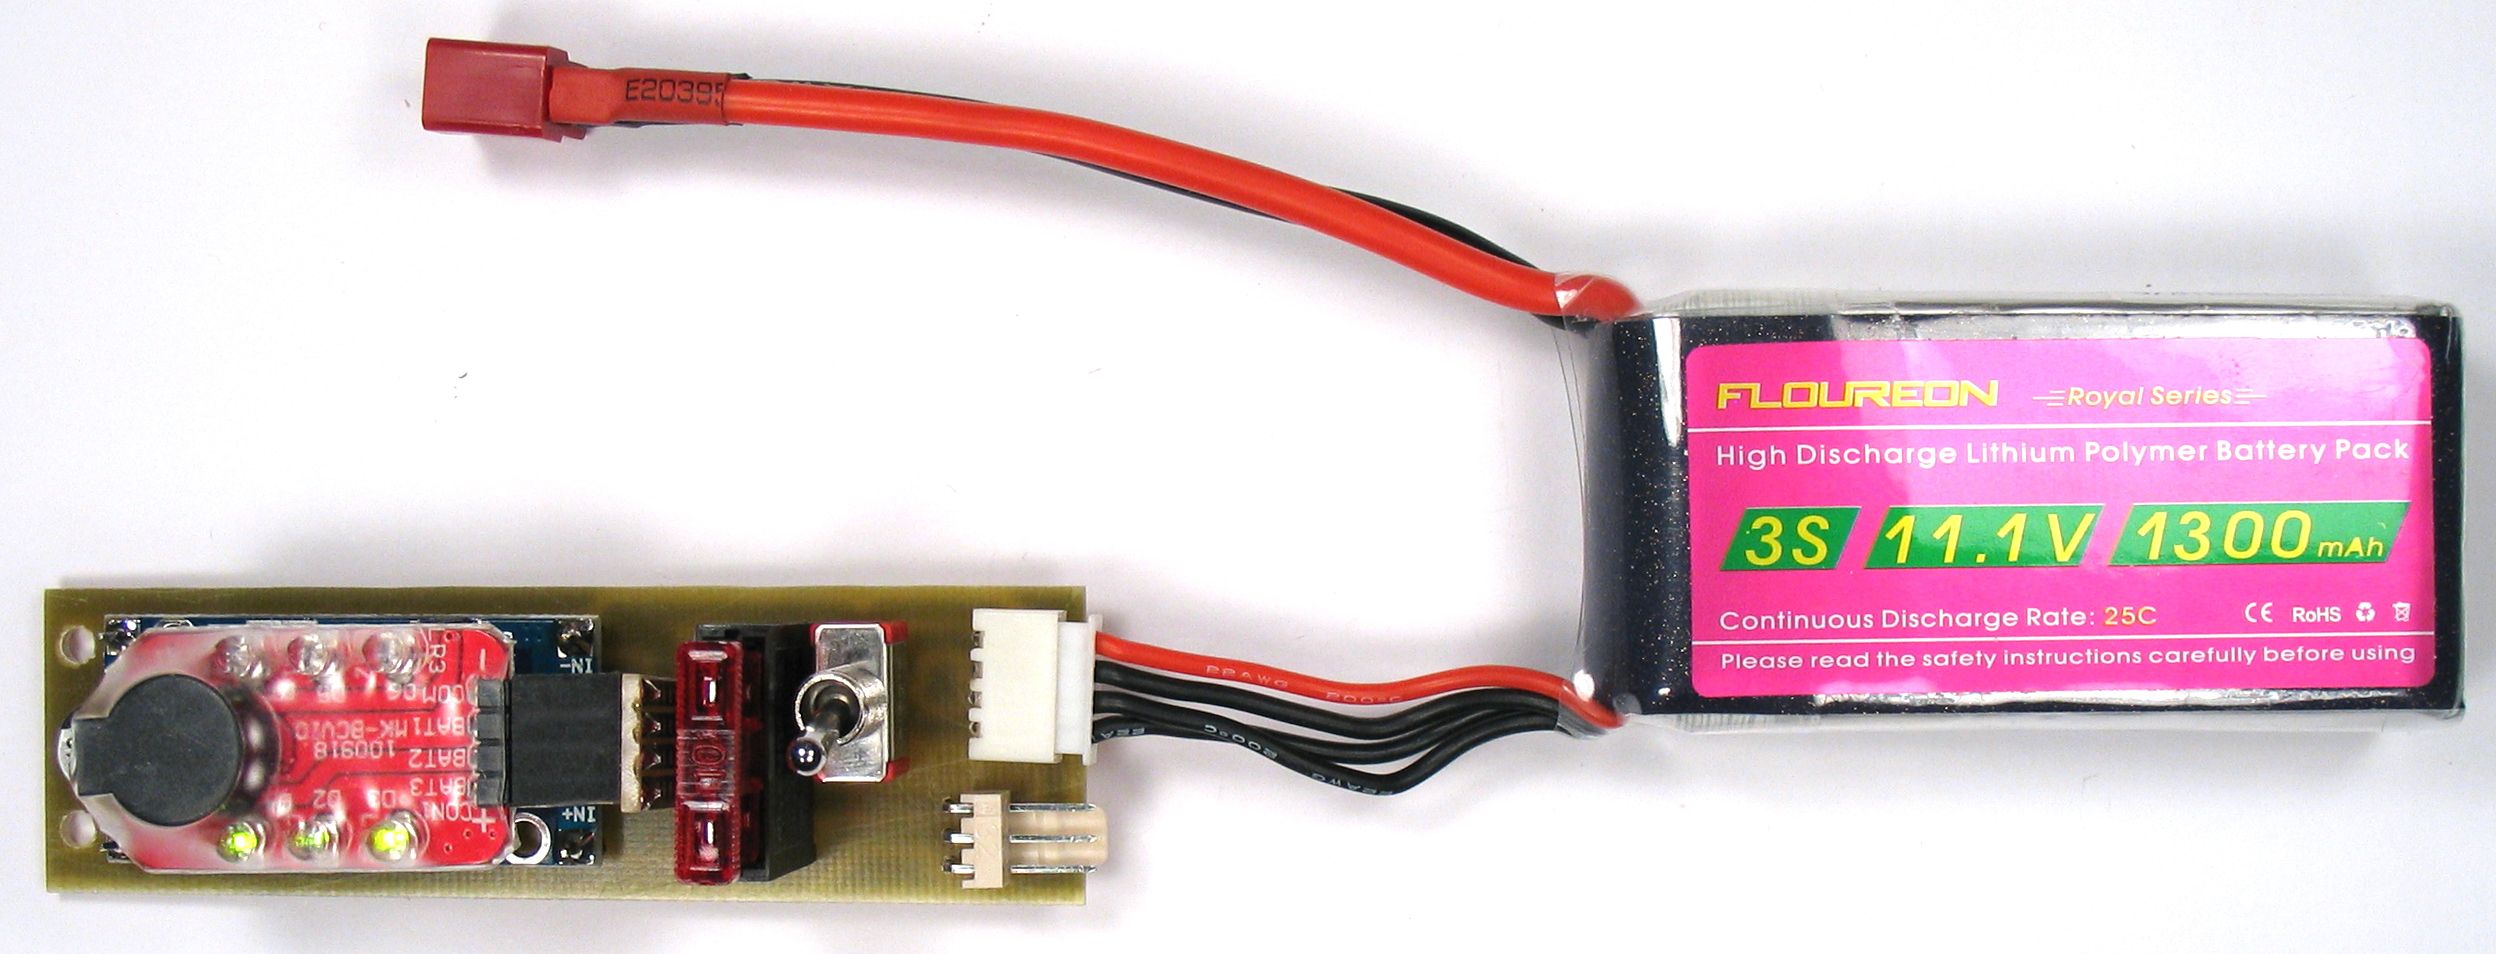
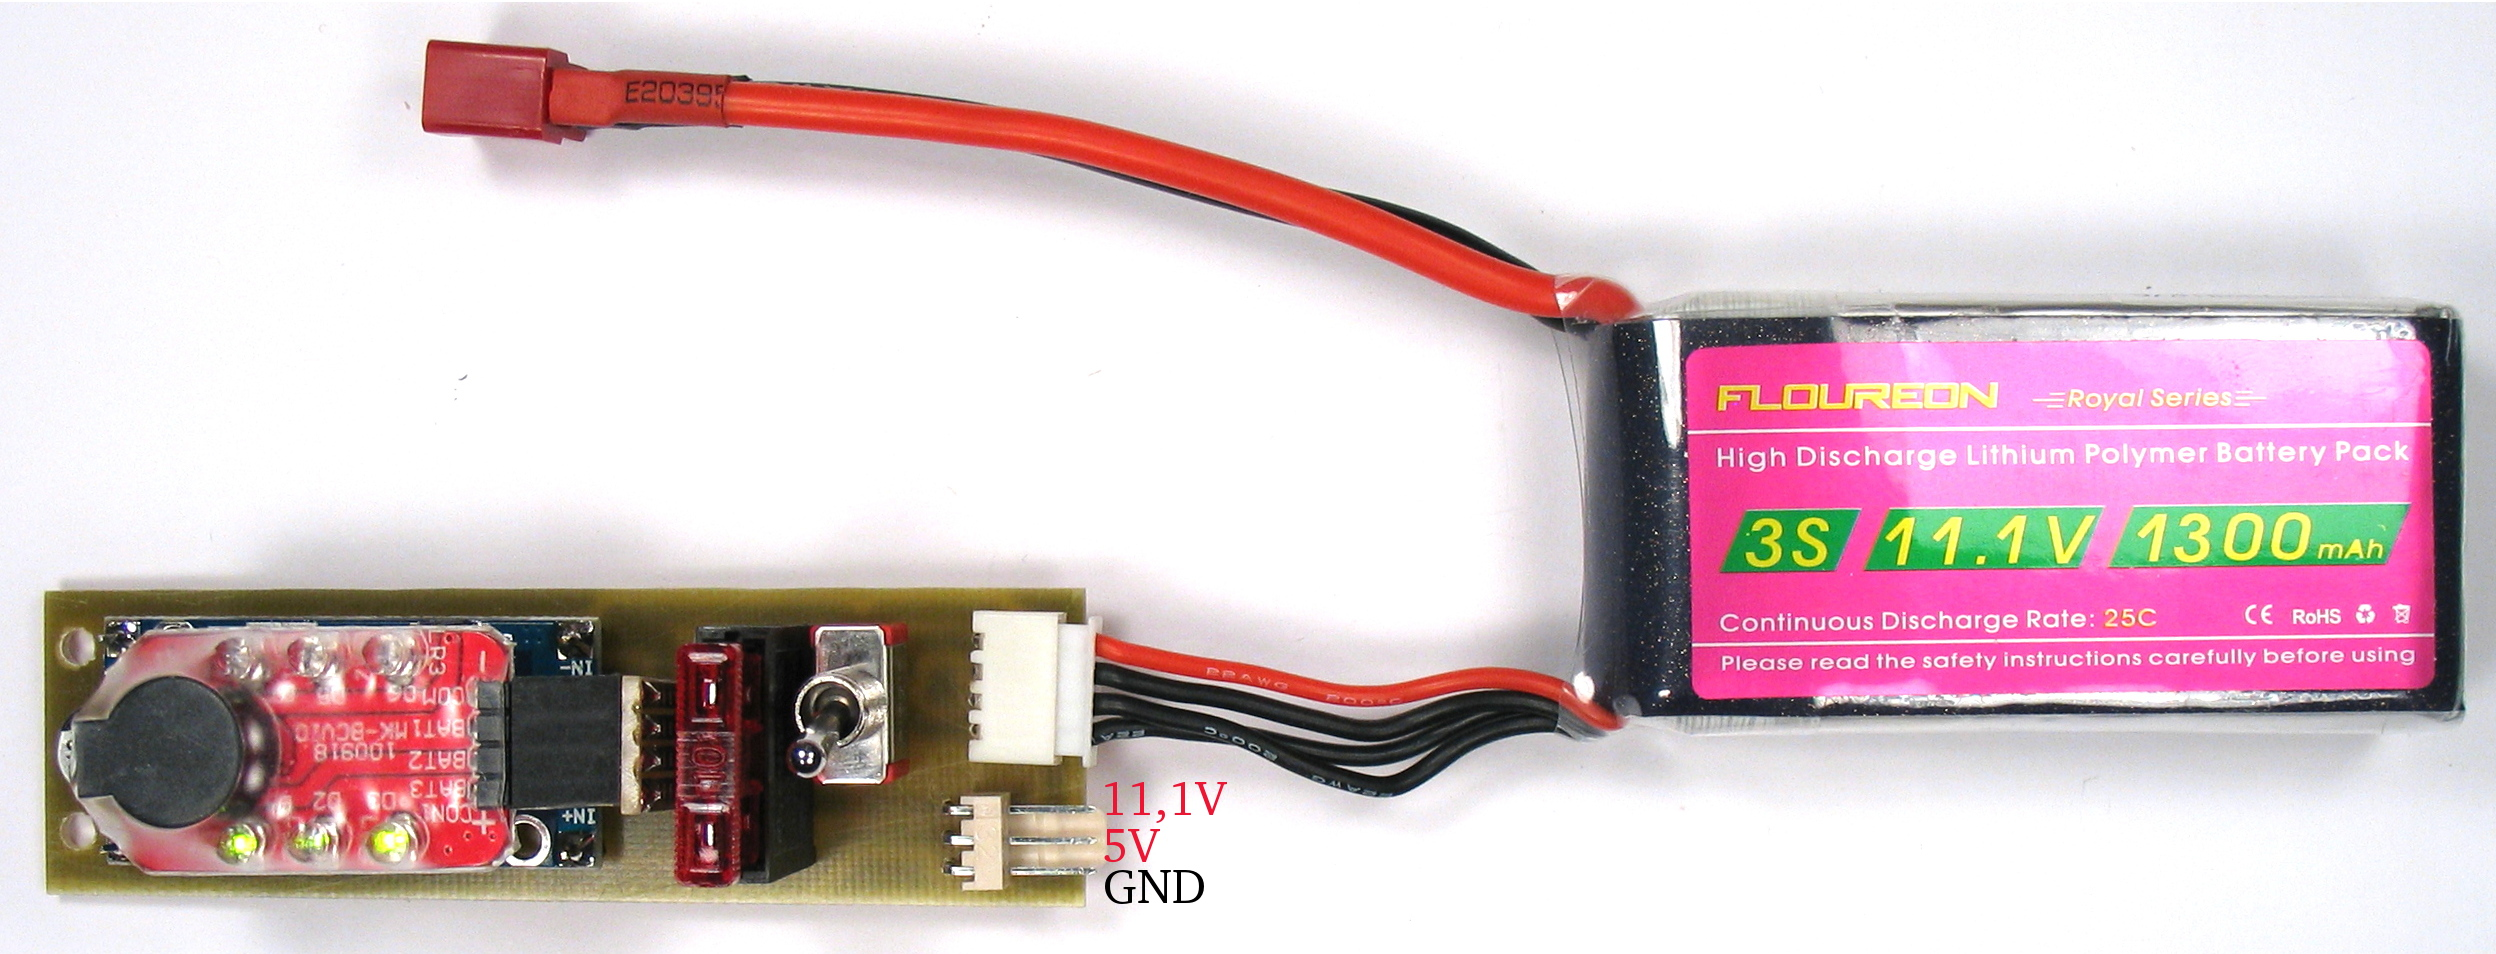
Beschreibung des LiPo-Adapters hinzugefügt

diff --git a/hackopedia/LiPoPowerAdapter.md b/hackopedia/LiPoPowerAdapter.md
@@ -1,0 +1,67 @@
+---
+layout: page
+title: Poweradapter für LiPo-Akkus
+permalink: /hackopedia/LiPoPowerAdapter
+---
+
+## Der LiPo-Poweradapter
+
+Lego mit 9V aus sechs 1,5V Batterien zu versorgen ist nicht schön. Die Alternative, sechs NiMH-Akkus zu verwenden ist schon besser, aber auch nicht gut, da man dann nur 7,2V zu Verfügung hat. Auch ist der Klotz aus diesen sechs AA-Zellen nicht sonderlich platzsparend. 
+
+Im Modellbau sind LiPo-Akkus sehr populär, sie haben eine hohe Energiedichte und von den Strömen, die möglich sind, kann der Standard-Lego-Batteriekasten nur träumen. Daher schwebte mir eine  Energieversorgung aus solchen Akkus vor. Mein ursprünglicher Plan war die Verwendung von drei 18650-Akkus. Die sind dann allerdings doch etwas groß. 3S-Akkus aus dem Modellbau sind da (je nach Kapazität) deutlich kleiner. Also besorgte ich mir je einen solchen mit [1300mAh](http://www.ebay.de/itm/381493534405) und [1000mAh](http://www.ebay.de/itm/281745744579).
+
+## Eigenschaften
+
+Um die Akkus mit Lego nutzen zu können, brauche ich einen Adapter mit folgenden Eigenschaften:
+
+* Betrieb am Balacer-Stecker der Akkus. (Für die richtige Power gibt es verschiedene Steckerformate, aber der Balancer-Anschluss ist normiert und für die von mir benötigten Ströme vollkommen ausreichend.)
+* Ausgangsspannungen:
+   * 9-12,6V (Nennspannung 11,1V) (Also volle Spannung aus dem 3S-Akku) 
+   * 5V (zur Versorgung von Raspi und Arduino) über einstellbaren [Schaltregler](http://www.amazon.de/dp/B00Q8753KQ/)
+   * 3-Pin-Stecker
+* Ein/Aus-Schalter
+* 10A-Sicherung (damit mir der Akku bei einem Kurzschluss nicht um die Ohren fliegt)
+* Einzelüberwachung der drei Akkuzellen auf Unterspannung durch einen [LiPo-Tester](http://www.ebay.de/itm/191716987655).
+
+## Entwicklung
+Die Schaltung ließ sich sehr leicht mit [KiCad](http://kicad-pcb.org/) entwerfen. Der Schaltplan sieht so aus:
+
+<img src="/images/LiPoPowerAdapterSchaltplan.png" alt="Schaltplan des LiPo-Poweradapters" width="600px" />
+
+Und so das Layout der einseitigen Platine:
+
+<img src="/images/LiPoPowerAdapterPCB.png" alt="Platinenlayout des LiPo-Poweradapters" width="600px" />
+
+Das gesamte KiCad-Projekt liegt in meinen Github [Legohacks](https://github.com/HackingGulliver/LegoHacks/tree/master/hardware/KiCad/LiPoPowerAdapter).
+
+Das Layout habe ich auf Folie ausgedruckt und damit die einseitig mit Photolack beschichtete Platine belichtet. Unter meiner Gesichtsbräuner-UV-Lampe betrug die Belichtungszeit 1 Minute 30 Sekunden. Nachddem die Platine in NaOH entwickelt war, ging es ins Natriumpersulfat im Ätzgerät.
+
+Das Bild zeigt die fertige Platine, die bedruckte Folie und das Leiterplattenmaterial (mit Schutzfolie).
+
+<img src="/images/LiPoAdapter1.JPG" alt="Belichtung" width="600px" />
+
+Hier alle Einzelteile, die nun zu verlöten waren. (Es fehlt der senkrecht stehende Adapter für den LiPo-Tester.)
+
+<img src="/images/LiPoAdapter2.JPG" alt="Vor dem Löten" width="600px" />
+
+Um in der Fläche Platz zu sparen, habe ich mich für eine vertikale Bauweise entschieden. Dies bot sich an, da der Schalter und die Sicherung für sich alleine schon recht hoch sind. Somit schwebt der LiPo-Tester über dem Spannungsregler. 
+
+<img src="/images/LiPoAdapter3.JPG" alt="Adapter von oben" width="600px" />
+
+Der LiPo-Tester ist nur gesteckt und kann daher auch noch an anderer Stelle verwendet werden.
+
+<img src="/images/LiPoAdapter4.JPG" alt="Adapter ohne LiPo-Tester" width="600px" />
+<img src="/images/LiPoAdapter5.JPG" alt="Adapter von der Seite" width="600px" />
+
+Mit Akku ist das Ganze dann komplett. Der LiPo-Tester zeigt, dass alle drei Zellen noch im grünen Bereich sind. Am Ausgang können (von unten nach oben) GND, +5V und +11,1V entnommen werden.
+
+<img src="/images/LiPoAdapter6.JPG" alt="Adapter mit Akku" width="600px" />
+
+
+## Betrieb
+
+Die Akkus werden über ihren Balancer-Anschluss am Adapter betrieben. 
+
+Das Schöne an der Sicherung ist auch, dass man sie entnehmen kann und über die Kontakte den Strom messen kann, der von der angeschlossenen Schaltung aufgenommen wird. Im Leerlauf zieht der Schaltregler ca. 6,6 mA. Mit Raspi 3 werden bei ruhendem Desktop ca. 150mA gezogen. Mit Funkmaus und Tastatur sind es knapp 180mA. Bei der zusätzlichen Wiedergabe eines YouTube-Videos im Browser sind wir bei ca. 280 mA. Wenn der Raspi mit einer Mathematica-Demo befeuert wird (>80% Last) kommen knapp 500mA zusammen. Das bedeutet, dass man mit dem kleinen 1000mAh-Akku gut 3 Stunden Video schauen kann oder 2 Stunden lang Mathematica-Demos laufen lassen kann.
+
+Der Schalter schaltet den Stromfluss über die GND-Leitung aus. Damit werden die LEDs des LiPo-Testers ausgeschaltet. Trotzdem zieht dieser noch einen minimalen Strom (wahrscheinlich über die anderen Balancer-Leitungen). Auch erlaubt der LiPo-Tester bei ausgeschaltetem Schalter einen geringe Stromentnahme am Ausgang, der normalerweise die Akkuspannung führt. Es ist also bei längerer Pause besser, den LiPo-Tester oder den Akku abzuziehen.

diff --git a/hackopedia/MuS.md b/hackopedia/MuS.md
@@ -4,7 +4,7 @@ title: Mechatronik und Sensoren
 permalink: /hackopedia/MuS
 ---
 
-Auf den folgenden Seiten stelle ich die verwendeten Sensoren, mechtronischen Bauteile wie z.B. Elektromotoren und elektrische Adapter für die Lego-Welt vor.
+Auf den folgenden Seiten stelle ich die verwendeten Sensoren und mechtronischen Bauteile wie z.B. Elektromotoren vor.
 
 ## Mechatronik
 
@@ -13,17 +13,10 @@ Auf den folgenden Seiten stelle ich die verwendeten Sensoren, mechtronischen Bau
 * [Schrittmotor 28BYJ-48](/hackopedia/28BYJ-48)
 * [Schrittmotor AEG](/hackopedia/SchrittmotorAEG)
 
-## Opto-Elektronik
-
-* [LED-Adapterkabel](/hackopedia/LED-Adapterkabel)
 
 ## Sensoren
 
 * [Optoreflexkoppler CNY70](/hackopedia/CNY70)
-
-## elektische Lego-Adapter
-
-* [Adapter für PowerFunctions-Kabel](/hackopedia/PowerFunctionsAdapter)
 
 
 

diff --git a/hackopedia/Projekte.md b/hackopedia/Projekte.md
@@ -1,0 +1,22 @@
+---
+layout: page
+title: Projekte
+permalink: /hackopedia/Projekte
+---
+
+Dies ist die Startseite für alle begonnenen oder abgeschlossene Projekte.
+
+## Stromversorgung
+
+* [LiPo-Poweradapter](/hackopedia/LiPoPowerAdapter)
+
+## Opto-Elektronik
+
+* [LED-Adapterkabel](/hackopedia/LED-Adapterkabel)
+
+
+## elektrische Lego-Adapter
+
+* [Adapter für PowerFunctions-Kabel](/hackopedia/PowerFunctionsAdapter)
+
+

diff --git a/Hack-o-Pedia.md b/Hack-o-Pedia.md
@@ -8,7 +8,8 @@ In der Hack-o-Pedia beschreibe ich alles von bleibendem Wert also Fakten, Fakten
 
 * [Ideen](Ideen)
 * [Elektronische Bauteile](Bauteile)
-* [Mechatronik, Sensoren, Lego-Adapter (elektrisch)](MuS)
+* [Mechatronik und Sensoren](MuS)
+* [Projekte](Projekte)
 * [Raspberry Pi](RaspberryPi)
 * [Arduino](Arduino)
 * [(Homebrew) Lego](Lego)
